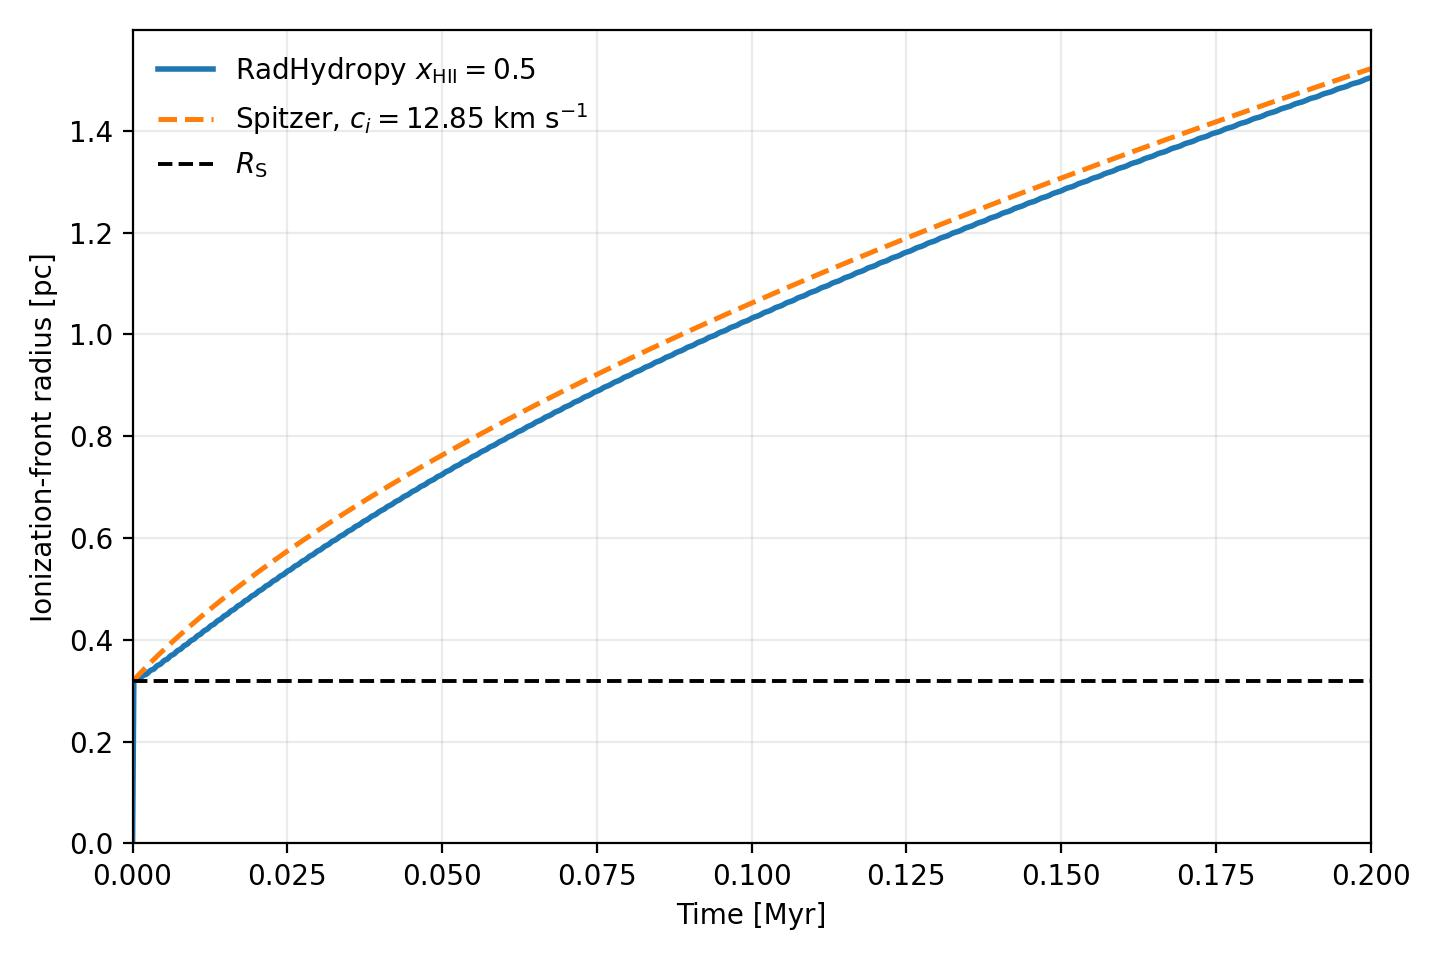
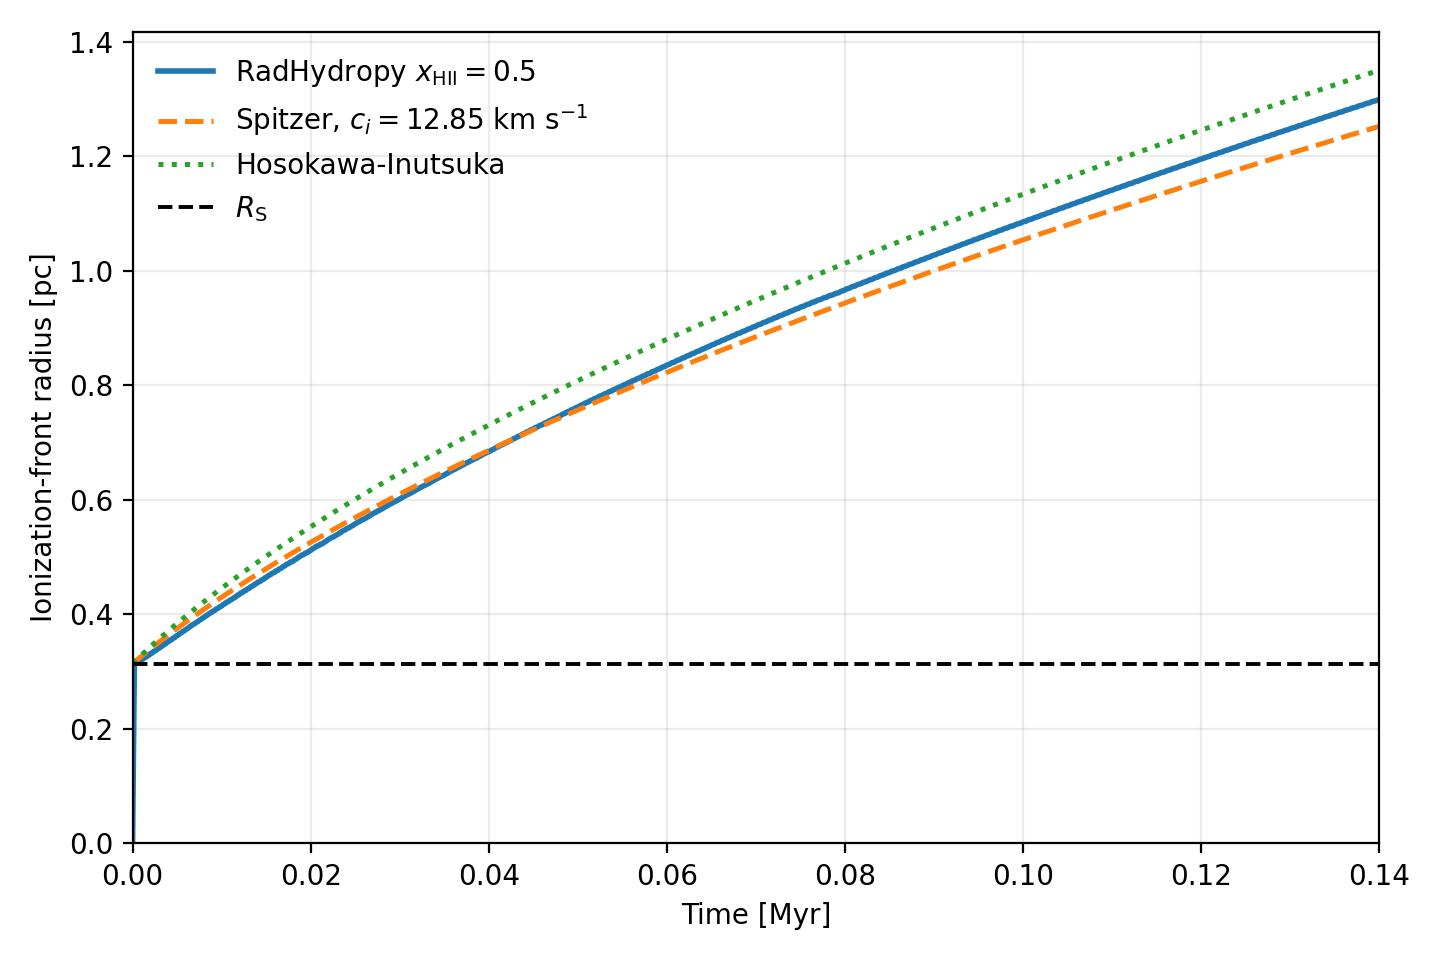
Add figure density vs radius

diff --git a/example/EarlyHIIRegionExpansion1D/tools.py b/example/EarlyHIIRegionExpansion1D/tools.py
@@ -26,7 +26,7 @@ def build_problem(config):
         EOStype='isothermal',
         gamma=1.0,
         CFL=config['hydro_cfl'],
-        order=0,
+        order=config['hydro_order'],
         dtmin=1.0e-10 * unyt.Myr,
         dtmax=config['hydro_timestep_max'],
         hydrogen_chemistry=True,
@@ -127,6 +127,15 @@ def append_history(history, mesh, fluid, par):
     history['front_radius_pc'].append(ionization_front_position(mesh, fluid, par))
 
 
+def density_snapshot(mesh, fluid, par):
+    interior = interior_slice(par)
+    return {
+        'time_Myr': fluid.time.to_value(unyt.Myr),
+        'radius_pc': mesh.coordinate[interior].to_value(unyt.pc).copy(),
+        'density_g_cm3': fluid.rho[interior].to_value(unyt.g / unyt.cm**3).copy(),
+    }
+
+
 def front_radius_at_time(history, time):
     time_myr = np.asarray(history['time_Myr'])
     front_radius_pc = np.asarray(history['front_radius_pc'])
@@ -163,12 +172,30 @@ def spitzer_radius(time, config):
     return (radius_stromgren * factor**(4.0 / 7.0)).to(unyt.pc)
 
 
+def hosokawa_inutsuka_radius(time, config):
+    radius_stromgren = stromgren_radius(config)
+    ionized_sound_speed = config['ionized_sound_speed'].to(unyt.cm / unyt.s)
+    factor = (
+        1.0
+        + 7.0
+        * np.sqrt(4.0 / 3.0)
+        * ionized_sound_speed
+        * time.to(unyt.s)
+        / (4.0 * radius_stromgren.to(unyt.cm))
+    )
+    return (radius_stromgren * factor**(4.0 / 7.0)).to(unyt.pc)
+
+
 def save_front_plot(history, config, figure_filename):
     time = np.asarray(history['time_Myr']) * unyt.Myr
     time_myr = time.to_value(unyt.Myr)
     front_radius_pc = np.asarray(history['front_radius_pc'])
     stromgren_radius_pc = stromgren_radius(config).to_value(unyt.pc)
     radius_spitzer_pc = spitzer_radius(time, config).to_value(unyt.pc)
+    radius_hosokawa_inutsuka_pc = hosokawa_inutsuka_radius(
+        time,
+        config,
+    ).to_value(unyt.pc)
 
     fig, ax = plt.subplots(figsize=(7.2, 4.8))
     ax.plot(
@@ -189,6 +216,14 @@ def save_front_plot(history, config, figure_filename):
             % config['ionized_sound_speed'].to_value(unyt.km / unyt.s)
         ),
     )
+    ax.plot(
+        time_myr,
+        radius_hosokawa_inutsuka_pc,
+        color='tab:green',
+        lw=1.8,
+        ls=':',
+        label='Hosokawa-Inutsuka',
+    )
     ax.axhline(
         stromgren_radius_pc,
         color='black',
@@ -204,6 +239,7 @@ def save_front_plot(history, config, figure_filename):
         max(
             1.05 * np.max(front_radius_pc),
             1.05 * np.max(radius_spitzer_pc),
+            1.05 * np.max(radius_hosokawa_inutsuka_pc),
             1.1 * stromgren_radius_pc,
         ),
     )
@@ -212,3 +248,59 @@ def save_front_plot(history, config, figure_filename):
     fig.tight_layout()
     fig.savefig(figure_filename, dpi=200)
     plt.close(fig)
+
+
+def save_density_profile_plot(snapshot, config, figure_filename):
+    time = snapshot['time_Myr'] * unyt.Myr
+    radius_pc = np.asarray(snapshot['radius_pc'])
+    density_g_cm3 = np.asarray(snapshot['density_g_cm3'])
+    spitzer_radius_pc = spitzer_radius(time, config).to_value(unyt.pc)
+    hosokawa_inutsuka_radius_pc = hosokawa_inutsuka_radius(
+        time,
+        config,
+    ).to_value(unyt.pc)
+
+    fig, ax = plt.subplots(figsize=(7.2, 4.8))
+    ax.plot(
+        radius_pc,
+        density_g_cm3,
+        color='tab:blue',
+        lw=2.0,
+        label='RadHydropy',
+    )
+    ax.axvline(
+        spitzer_radius_pc,
+        color='tab:orange',
+        lw=1.8,
+        ls='--',
+        label='Spitzer',
+    )
+    ax.axvline(
+        hosokawa_inutsuka_radius_pc,
+        color='tab:green',
+        lw=1.8,
+        ls=':',
+        label='Hosokawa-Inutsuka',
+    )
+    ax.set_yscale('log')
+    ax.set_xlabel('Radius [pc]')
+    ax.set_ylabel(r'Density [g cm$^{-3}$]')
+    ax.set_title('Density profile at %.3f Myr' % snapshot['time_Myr'])
+    ax.set_xlim(0.0, config['boxsize'].to_value(unyt.pc))
+    positive_density = density_g_cm3[density_g_cm3 > 0.0]
+    if positive_density.size:
+        ymin = 10.0 ** np.floor(np.log10(0.8 * np.min(positive_density)))
+        ymax = 10.0 ** np.ceil(np.log10(1.2 * np.max(positive_density)))
+        ax.set_ylim(ymin, ymax)
+    ax.grid(True, alpha=0.25)
+    ax.legend(frameon=False)
+    fig.tight_layout()
+    fig.savefig(figure_filename, dpi=200)
+    plt.close(fig)
+
+
+def save_density_profile_plots(snapshots, config, figure_filenames):
+    if len(snapshots) != len(figure_filenames):
+        raise ValueError('density snapshots and figure filenames differ in length')
+    for snapshot, figure_filename in zip(snapshots, figure_filenames):
+        save_density_profile_plot(snapshot, config, figure_filename)

diff --git a/example/EarlyHIIRegionExpansion1D/early_hii_region_expansion1d.py b/example/EarlyHIIRegionExpansion1D/early_hii_region_expansion1d.py
@@ -38,6 +38,19 @@ import tools as et
 
 rundir = os.path.dirname(os.path.abspath(__file__))
 figure_filename = os.path.join(rundir, 'EarlyHIIRegionExpansion1D_IFront.jpg')
+density_output_specs = (
+    (0.005 * unyt.Myr, '0p005'),
+    (0.020 * unyt.Myr, '0p020'),
+    (0.080 * unyt.Myr, '0p080'),
+    (0.140 * unyt.Myr, '0p140'),
+)
+density_figure_filenames = [
+    os.path.join(
+        rundir,
+        'EarlyHIIRegionExpansion1D_Density_%sMyr.jpg' % label,
+    )
+    for _, label in density_output_specs
+]
 
 # Physical parameters
 # This is Lyman continuum photon rate:
@@ -50,9 +63,10 @@ ionized_sound_speed = 12.85 * unyt.km / unyt.s
 sigma_gamma = 6.3e-18 * unyt.cm**2
 # Approximate recombination coefficient for hydrogen at 10^4 K, case B:
 alpha_B_coefficient = 2.7e-13 * unyt.cm**3 / unyt.s
-boxsize = 5.0 * unyt.pc
-final_time = 0.2 * unyt.Myr
+boxsize = 2.0 * unyt.pc
+final_time = 0.14 * unyt.Myr
 hydro_cfl = 0.5
+hydro_order = 1
 source_cfl = 0.1
 hydro_timestep_max = 2.0e-4 * unyt.Myr
 source_timestep_min = 1.0e-12 * unyt.Myr
@@ -72,6 +86,7 @@ def main():
         'boxsize': boxsize,
         'final_time': final_time,
         'hydro_cfl': hydro_cfl,
+        'hydro_order': hydro_order,
         'source_cfl': source_cfl,
         'hydro_timestep_max': hydro_timestep_max,
         'source_timestep_min': source_timestep_min,
@@ -85,13 +100,22 @@ def main():
         'time_Myr': [],
         'front_radius_pc': [],
     }
+    density_snapshots = []
+    density_snapshot_times = [time for time, _ in density_output_specs]
+    next_density_snapshot = 0
     counters = {
         'hydro_steps': 0,
         'source_steps': 0,
     }
     et.append_history(history, sim.mesh, sim.fluid, sim.par)
     while sim.fluid.time < final_time:
-        dt = sim.GetStepTime(final_time=final_time)
+        step_final_time = final_time
+        if next_density_snapshot < len(density_snapshot_times):
+            step_final_time = min(
+                final_time,
+                density_snapshot_times[next_density_snapshot],
+            )
+        dt = sim.GetStepTime(final_time=step_final_time)
         step = sim.Step(
             dt=dt,
             mode='hydro_sources',
@@ -107,10 +131,26 @@ def main():
             config,
         )
         et.append_history(history, sim.mesh, sim.fluid, sim.par)
+        while next_density_snapshot < len(density_snapshot_times):
+            current_time_myr = sim.fluid.time.to_value(unyt.Myr)
+            snapshot_time_myr = density_snapshot_times[
+                next_density_snapshot
+            ].to_value(unyt.Myr)
+            if current_time_myr + 1.0e-12 < snapshot_time_myr:
+                break
+            density_snapshots.append(
+                et.density_snapshot(sim.mesh, sim.fluid, sim.par)
+            )
+            next_density_snapshot += 1
 
     sim.solver.TraceSphericalPhotonDensityFast(sim.mesh, sim.fluid, sim.par)
     sim.solver.SetBoundary(sim.mesh, sim.fluid, sim.par)
     et.save_front_plot(history, config, figure_filename)
+    et.save_density_profile_plots(
+        density_snapshots,
+        config,
+        density_figure_filenames,
+    )
 
     comparison_time_myr = comparison_time.to_value(unyt.Myr)
     simulation_radius_pc = et.front_radius_at_time(
@@ -118,6 +158,10 @@ def main():
         comparison_time,
     ).to_value(unyt.pc)
     spitzer_radius_pc = et.spitzer_radius(
+        comparison_time,
+        config,
+    ).to_value(unyt.pc)
+    hosokawa_inutsuka_radius_pc = et.hosokawa_inutsuka_radius(
         comparison_time,
         config,
     ).to_value(unyt.pc)
@@ -138,7 +182,13 @@ def main():
         'Spitzer solution at %.2f Myr = %.3e pc'
         % (comparison_time_myr, spitzer_radius_pc)
     )
+    print(
+        'Hosokawa-Inutsuka solution at %.2f Myr = %.3e pc'
+        % (comparison_time_myr, hosokawa_inutsuka_radius_pc)
+    )
     print('figure = %s' % figure_filename)
+    for density_figure_filename in density_figure_filenames:
+        print('density figure = %s' % density_figure_filename)
 
 
 if __name__ == '__main__':
